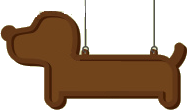
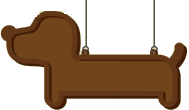
animation

Changed region(s): [[0.4233, 0.0, 0.4762, 0.4364]]

diff --git a/app/assets/javascripts/application.js b/app/assets/javascripts/application.js
@@ -107,28 +107,114 @@ $(function() {
 });
 */
 
-//TODO: modernizer; use prefixed function
-$(function() {
-    $('.plate').bind("click", function() {
-        $(this).addClass('fall');
+function CssUtils() {}
+CssUtils.addRule = function(rule) {
+    if( document.styleSheets && document.styleSheets.length ) {
+        document.styleSheets[0].insertRule( rule, 0 );
+    } else {
+        var s = document.createElement( 'style' );
+        s.innerHTML = rule;
+        document.getElementsByTagName( 'head' )[ 0 ].appendChild( s );
+    }
+}
+CssUtils.getPrefix = function(str) {
+    var result = /.*\-/g.exec(str);
+    if( result && result.length>0 ) return result[0];
+    return '';
+}
+CssUtils.fromCamelToCss = function(str) {
+    return str.replace(/([A-Z])/g, function(str,m1){ return '-' + m1.toLowerCase(); });
+}
 
-        var evtName = crossBrowserEvtNames[ Modernizr.prefixed('animation') ];
-        $(this).bind(evtName, function(){
-            var evt = arguments[0];
-            var orig = evt.originalEvent;
-            console.log(orig);
-            if( orig.animationName == "anim") {
-                console.log(1);
-                $(this).css("transform", "rotateX(0deg)");
-            } else if( orig.animationName == "anim2") {
-                console.log(2);
-                $(this).css("transform", "rotateX(-30deg)");
-            } else if( orig.animationName == "anim3" ) {
-                console.log(3);
-                $(this).css("transform", "rotateX(0deg)");
+if( typeof Array.prototype.last !== 'function' ) {
+    Array.prototype.last = function() {
+        if( this.length == 0 ) return null;
+        return this[this.length-1];
+    }
+}
+
+
+$(function() {
+    (new function() {
+
+        var startRot = '180deg', trans = '50px', endRot = '-100deg', startDelay = 1000,
+            afterRotateIdx = 0,
+            flappingDegrees = [100,80,70,60,50,40,30,20,10,5,0], flappingDelays = [startDelay];
+
+        this.getPlate = function() {
+            return $('.plate');
+        }
+        this.initVars = function() {
+            var transform = Modernizr.prefixed('transform');
+            var transformCss = CssUtils.fromCamelToCss(transform);
+            var keyFrame = '@' + CssUtils.getPrefix(transformCss) + 'keyframes';  //issue modernizr
+
+            for(var i=0;i<flappingDegrees.length-1;i++) {
+                var f = (i%2===0)?-1:1;
+                var from = flappingDegrees[i] * f;
+                var to = flappingDegrees[i+1] * f * (-1);
+                var rule = keyFrame + ' plate' + i + ' { '+
+                            ' from {' + CssUtils.fromCamelToCss(transform) + ':rotateX( ' + from + 'deg ) translate(0px,' + trans + ')}'+
+                            ' to {' + CssUtils.fromCamelToCss(transform) + ':rotateX( ' + to + 'deg ) translate(0px,' + trans + ') }'+
+                            '}';
+                console.log(rule);
+                CssUtils.addRule(rule);
+                flappingDelays.push( Math.round(flappingDelays.last() * .75) );
             }
-        });
-    });
+        }
+
+        this.init = function() {
+            this.initVars();
+            var evtName = crossBrowserEvtNames[ Modernizr.prefixed('animation') ];
+            this.getPlate().bind(evtName, $.proxy( function(evt) {
+                var plate = this.getPlate();
+                var orig = evt.originalEvent;
+                if( orig ) {
+                    var name = orig.animationName;
+                    switch(name) {
+                        case 'animstart':
+                            plate.css("transform", "rotateX(" + endRot + ") translate(0px," + trans + ")");
+                            this.afterRotate();
+                            break;
+                        default:
+                            var postfix = parseInt(/\d+$/.exec(name)[0]);
+                            var f = (postfix%2==0) ? -1 : 1;
+                            var endValue = flappingDegrees[postfix+1] * f;
+                            console.log( "rotateX(" + endValue + "deg) translate(0px," + trans + ")" );
+                            plate.css("transform", "rotateX(" + endValue + "deg) translate(0px," + trans + ")");
+                    }
+                }
+            },this));
+        }
+        this.doRotate = function() {
+            this.getPlate().css( Modernizr.prefixed('animation'), 'animstart 3s');
+        }
+        this.afterRotate = function() {
+            var anim = '', animDelay = '';
+            var tmpAnim = 0;
+            $.each(flappingDelays, function(idx,val) {
+                tmpAnim += val;
+                if( anim!='' ) {
+                    anim += ', ';
+                    animDelay += ', ';
+                }
+                anim += 'plate' + idx + ' ' + val + 'ms';
+                animDelay += tmpAnim;
+                animDelay += 'ms';
+            });
+            var plate = this.getPlate();
+            console.log( anim );
+            console.log( animDelay );
+            var animKeyword = Modernizr.prefixed('animation');
+            plate.css( animKeyword, anim);
+            plate.css( animKeyword + '-delay', animDelay);
+            plate.css( animKeyword + '-timing-function', 'ease-start');
+        }
+        this.start = function() {
+            this.doRotate();
+        }
+        this.init();
+    }).start();
 });
 
 ////////////////////////////////////// for dogs form

diff --git a/app/assets/stylesheets/navigation.css.scss b/app/assets/stylesheets/navigation.css.scss
@@ -1,21 +1,8 @@
-$full: 100%;
+@import "reuse";
 
-@mixin vendor-prefix($name, $value) {
-  #{$name}: #{$value};
-  -webkit-#{$name}: #{$value};
-  -ms-#{$name}: #{$value};
-  -moz-#{$name}: #{$value};
-  -o-#{$name}: #{$value};
-}
-
-@mixin keyframes($name) {
-  @-moz-keyframes #{$name} { @content; }
-  @-webkit-keyframes #{$name} { @content; }
-  @-o-keyframes #{$name} { @content; }
-  @-ms-keyframes #{$name} { @content; }
-  @-khtml-keyframes #{$name} { @content; }
-  @keyframes #{$name} { @content; }
-}
+$plateStartRot: 180deg;
+$plateTrans: 50px;
+$plateEndRot: -100deg;
 
 header.main_header {
   width: $full;
@@ -52,104 +39,21 @@ header.main_header {
     left: 0px;
     width: 189px;
     height:110px;
-    background-image: url(/assets/plate_trans.png);
+    background-image: url(/assets/plate_trans.svg);
     background-repeat: no-repeat;
     background-position: 50% 50%;
-    @include vendor-prefix(transform, rotateX(180deg));
+    @include vendor-prefix(transform, rotateX($plateStartRot) translate(0px,$plateTrans));
   }
 }
 
-.fall {
-  @include vendor-prefix(animation, "anim 3s, anim2 1s, anim3 1s, anim2 1s, anim3 1s");
-  @include vendor-prefix(animation-delay, "0s, 3s, 4s, 5s, 6s");
-  @include vendor-prefix(animation-timing-function, ease-start);
-}
-
-@include keyframes(anim) {
+@include keyframes(animstart) {
   from {
-    @include vendor-prefix(transform, rotateX(180deg));
+    @include vendor-prefix(transform, rotateX($plateStartRot));
   }
   to {
-    @include vendor-prefix(transform, rotateX(0deg) translate(0px,200px));
+    @include vendor-prefix(transform, rotateX($plateEndRot) translate(0px,$plateTrans));
   };
 }
-
-/*
-@keyframes anim
-{
-  from {
-    transform: rotateX(180deg);
-    -webkit-transform: rotateX(180deg);
-  }
-  to {
-    transform: rotateX(0deg) translate(0px,200px);
-    -webkit-transform: rotateX(0deg) translate(0px,200px);
-  }
-}
-
-@-webkit-keyframes anim
-{
-  from {
-    transform: rotateX(180deg);
-    -webkit-transform: rotateX(180deg);
-  }
-  to {
-    transform: rotateX(0deg);
-    -webkit-transform: rotateX(0deg);
-  }
-}
-*/
-
-@keyframes anim2
-{
-  from {
-    transform:rotateX(0deg);
-    -webkit-transform:rotateX(0deg);
-  }
-
-  to {
-    transform: rotateX(-30deg);
-    -webkit-transform: rotateX(-30deg);
-  }
-}
-
-@-webkit-keyframes anim2
-{
-  from {
-    transform:rotateX(0deg);
-    -webkit-transform:rotateX(0deg);
-  }
-  to {
-    transform: rotateX(-30deg);
-    -webkit-transform: rotateX(-30deg);
-  }
-}
-
-
-@keyframes anim3
-{
-  from {
-    transform: rotateX(-30deg);
-    -webkit-transform: rotateX(-30deg);
-  }
-  to {
-    transform: rotateX(0deg);
-    -webkit-transform: rotateX(0deg);
-  }
-}
-
-@-webkit-keyframes anim3
-{
-  from {
-    transform: rotateX(-30deg);
-    -webkit-transform: rotateX(-30deg);
-  }
-  to {
-    transform: rotateX(0deg);
-    -webkit-transform: rotateX(0deg);
-  }
-}
-
 
 /*
 ul#navigation {

diff --git a/app/assets/stylesheets/reuse.css.scss b/app/assets/stylesheets/reuse.css.scss
@@ -1,0 +1,18 @@
+$full: 100%;
+
+@mixin vendor-prefix($name, $value) {
+  #{$name}: #{$value};
+  -webkit-#{$name}: #{$value};
+  -ms-#{$name}: #{$value};
+  -moz-#{$name}: #{$value};
+  -o-#{$name}: #{$value};
+}
+
+@mixin keyframes($name) {
+  @-moz-keyframes #{$name} { @content; }
+  @-webkit-keyframes #{$name} { @content; }
+  @-o-keyframes #{$name} { @content; }
+  @-ms-keyframes #{$name} { @content; }
+  @-khtml-keyframes #{$name} { @content; }
+  @keyframes #{$name} { @content; }
+}

diff --git a/app/assets/stylesheets/fallbacks.css.scss b/app/assets/stylesheets/fallbacks.css.scss
@@ -1,0 +1,2 @@
+@import "reuse";
+
